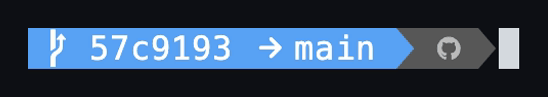
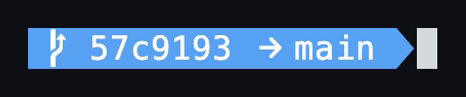
feat: add repo toggle to the git module (#202)

Changed region(s): [[0.0901, 0.2784, 0.9614, 0.7423], [0.03, 0.2784, 0.0601, 0.7113]]

diff --git a/site/config.html b/site/config.html
@@ -620,6 +620,7 @@
               <code>"auto"</code> picks by the size of <code>.git/index</code>, and uses gitoxide when <code>git</code> isn't on your <code>PATH</code>.
             </td></tr>
             <tr><td><code>worktrees</code></td><td>boolean</td><td><code>true</code></td><td>Show the linked-worktree count next to the branch, as <code>index/count</code> inside a linked worktree. Nothing shows when there are none.</td></tr>
+            <tr><td><code>repo</code></td><td>boolean</td><td><code>true</code></td><td>Show the remote segment: the GitHub logo linking to the repository and the ahead/behind counts.</td></tr>
           </tbody>
         </table>
         <details class="theme-opts" data-theme="git">
@@ -634,12 +635,13 @@
 </div><!-- /example -->
           <div class="example" data-example="git/full">
   <div class="ex-label">All options, detached HEAD</div>
-  <figure class="term shot"><img src="img/config/git-full.png" width="274" height="48" loading="lazy" alt="The git example: All options, detached HEAD."></figure>
+  <figure class="term shot"><img src="img/config/git-full.png" width="233" height="48" loading="lazy" alt="The git example: All options, detached HEAD."></figure>
   <pre class="json"><code>{
   <span class="k">"git"</span>: {
     <span class="k">"status_timeout_ms"</span>: <span class="n">500</span>,
     <span class="k">"backend"</span>: <span class="s">"cli"</span>,
-    <span class="k">"worktrees"</span>: <span class="n">false</span>
+    <span class="k">"worktrees"</span>: <span class="n">false</span>,
+    <span class="k">"repo"</span>: <span class="n">false</span>
   }
 }</code></pre>
 </div><!-- /example -->

diff --git a/src/config.rs b/src/config.rs
@@ -223,6 +223,10 @@ pub enum LineSegment {
         /// shows when there are none.
         #[serde(default = "default_true")]
         worktrees: bool,
+        /// Show the remote segment: the forge logo linking to the repository
+        /// and the ahead/behind counts. On by default.
+        #[serde(default = "default_true")]
+        repo: bool,
     },
     Pr {
         /// Append a coloured dot reflecting the PR's CI check status. On by
@@ -441,6 +445,8 @@ enum KnownLineSegment {
         backend: GitBackend,
         #[serde(default = "default_true")]
         worktrees: bool,
+        #[serde(default = "default_true")]
+        repo: bool,
     },
     Pr {
         #[serde(default = "default_true")]
@@ -591,10 +597,12 @@ impl From<KnownLineSegment> for LineSegment {
                 status_timeout_ms,
                 backend,
                 worktrees,
+                repo,
             } => LineSegment::Git {
                 status_timeout_ms,
                 backend,
                 worktrees,
+                repo,
             },
             KnownLineSegment::Pr { status } => LineSegment::Pr { status },
             KnownLineSegment::Python { version, venv } => LineSegment::Python { version, venv },
@@ -882,6 +890,7 @@ impl Config {
                         status_timeout_ms: DEFAULT_GIT_STATUS_TIMEOUT_MS,
                         backend: GitBackend::Auto,
                         worktrees: true,
+                        repo: true,
                     },
                     LineSegment::Pr { status: true },
                 ]),
@@ -936,6 +945,7 @@ impl Default for Config {
                             status_timeout_ms: DEFAULT_GIT_STATUS_TIMEOUT_MS,
                             backend: GitBackend::Auto,
                             worktrees: true,
+                            repo: true,
                         },
                         LineSegment::Pr { status: true },
                         LineSegment::Padding(2),
@@ -1132,6 +1142,7 @@ mod tests {
                 status_timeout_ms: DEFAULT_GIT_STATUS_TIMEOUT_MS,
                 backend: GitBackend::Auto,
                 worktrees: true,
+                repo: true,
             }
         );
     }
@@ -1147,6 +1158,7 @@ mod tests {
                 status_timeout_ms: 250,
                 backend: GitBackend::Auto,
                 worktrees: true,
+                repo: true,
             }
         );
     }
@@ -1168,6 +1180,7 @@ mod tests {
                     status_timeout_ms: DEFAULT_GIT_STATUS_TIMEOUT_MS,
                     backend: expected,
                     worktrees: true,
+                    repo: true,
                 }
             );
         }
@@ -1184,6 +1197,23 @@ mod tests {
                 status_timeout_ms: DEFAULT_GIT_STATUS_TIMEOUT_MS,
                 backend: GitBackend::Auto,
                 worktrees: false,
+                repo: true,
+            }
+        );
+    }
+
+    #[test]
+    fn git_remote_segment_can_be_turned_off() {
+        let parsed: LineSegment = serde_json::from_str(r#"{"git":{"repo":false}}"#)
+            .expect("git module without repo should parse");
+
+        assert_eq!(
+            parsed,
+            LineSegment::Git {
+                status_timeout_ms: DEFAULT_GIT_STATUS_TIMEOUT_MS,
+                backend: GitBackend::Auto,
+                worktrees: true,
+                repo: false,
             }
         );
     }
@@ -1545,6 +1575,7 @@ mod tests {
                     status_timeout_ms: DEFAULT_GIT_STATUS_TIMEOUT_MS,
                     backend: GitBackend::Cli,
                     worktrees: true,
+                    repo: true,
                 },
                 Some(SegmentPadding::Small),
             ),

diff --git a/tests/git_worktrees.rs b/tests/git_worktrees.rs
@@ -1,4 +1,5 @@
-//! End-to-end checks for the linked-worktree label in the git widget.
+//! End-to-end checks for the linked-worktree label and the remote segment in
+//! the git widget.
 
 use std::fs;
 use std::path::{Path, PathBuf};
@@ -155,5 +156,32 @@ fn a_theme_can_swap_or_hide_the_icon() {
 
     let prompt = render(&root, "two", git_segment(json!({})), theme(""));
     assert!(prompt.contains("two 2/2 "), "prompt: {prompt:?}");
+    let _ = fs::remove_dir_all(&root);
+}
+
+#[test]
+fn turning_repo_off_hides_the_remote_segment() {
+    let root = scratch("repo");
+    let main = root.join("main");
+    git(
+        &main,
+        &["remote", "add", "origin", "git@github.com:example/repo.git"],
+    );
+    let theme = json!({
+        "defaults": { "fg": 15, "bg": 0 },
+        "modules": { "git": { "remote_icon": "REMOTE" } },
+    });
+
+    let shown = render(&root, "main", git_segment(json!({})), theme.clone());
+    assert!(shown.contains("REMOTE"), "prompt: {shown:?}");
+    assert!(
+        shown.contains("https://github.com/example/repo"),
+        "prompt: {shown:?}"
+    );
+
+    let hidden = render(&root, "main", git_segment(json!({ "repo": false })), theme);
+    assert!(hidden.contains("main "), "prompt: {hidden:?}");
+    assert!(!hidden.contains("REMOTE"), "prompt: {hidden:?}");
+    assert!(!hidden.contains("github.com"), "prompt: {hidden:?}");
     let _ = fs::remove_dir_all(&root);
 }

diff --git a/src/modules/git.rs b/src/modules/git.rs
@@ -34,6 +34,7 @@ pub struct Git<S> {
     status_timeout: Duration,
     backend: GitBackend,
     worktrees: bool,
+    repo: bool,
     scheme: PhantomData<S>,
 }
 
@@ -147,15 +148,23 @@ impl<S: GitScheme> Git<S> {
             Duration::from_millis(DEFAULT_GIT_STATUS_TIMEOUT_MS),
             GitBackend::default(),
             true,
+            true,
         )
     }
 
-    /// `worktrees` shows the linked-worktree count next to the branch.
-    pub fn with_config(status_timeout: Duration, backend: GitBackend, worktrees: bool) -> Git<S> {
+    /// `worktrees` shows the linked-worktree count next to the branch; `repo`
+    /// shows the remote segment with its link and ahead/behind counts.
+    pub fn with_config(
+        status_timeout: Duration,
+        backend: GitBackend,
+        worktrees: bool,
+        repo: bool,
+    ) -> Git<S> {
         Git {
             status_timeout,
             backend,
             worktrees,
+            repo,
             scheme: PhantomData,
         }
     }
@@ -835,7 +844,7 @@ impl<S: GitScheme> Module for Git<S> {
             S::git_conflicted_bg(),
         );
 
-        if stats.remote {
+        if self.repo && stats.remote {
             let remote = remote_label(
                 S::git_remote_icon(),
                 (stats.ahead, S::git_ahead_icon()),

diff --git a/src/editor/schema.rs b/src/editor/schema.rs
@@ -322,6 +322,11 @@ const GIT: &[OptionSpec] = &[
         true,
         "Show the linked-worktree count by the branch, index/count inside one.",
     ),
+    boolean(
+        "repo",
+        true,
+        "Show the remote segment: the repo link and ahead/behind counts.",
+    ),
 ];
 
 const PR: &[OptionSpec] = &[boolean(
@@ -925,6 +930,6 @@ mod tests {
     fn value_widgets_expose_their_option() {
         assert_eq!(find("padding").unwrap().options()[0].key, "width");
         assert_eq!(find("battery").unwrap().options().len(), 0);
-        assert_eq!(find("git").unwrap().options().len(), 3);
+        assert_eq!(find("git").unwrap().options().len(), 4);
     }
 }

diff --git a/src/powerline.rs b/src/powerline.rs
@@ -484,10 +484,12 @@ impl Powerline {
                     status_timeout_ms,
                     backend,
                     worktrees,
+                    repo,
                 } => self.add_module(Git::<T>::with_config(
                     Duration::from_millis(*status_timeout_ms),
                     *backend,
                     *worktrees,
+                    *repo,
                 )),
                 LineSegment::Pr { status } => self.add_module(
                     Pr::<T>::new(*status).with_claude_code_pr(claude.and_then(|s| s.pr.as_ref())),

diff --git a/README.md b/README.md
@@ -419,7 +419,7 @@ The current branch and working-tree status: modified, staged and untracked count
 the upstream. A GitHub logo appears whenever the repo has a remote, and links to the repository's web page (derived
 from the `origin` fetch URL); the ahead/behind counts beside it need an
 upstream tracking ref that still resolves, so they are absent on a branch that was never pushed or whose remote
-branch has been deleted.
+branch has been deleted. `"repo": false` hides the whole remote segment, logo and counts.
 
 A detached HEAD shows the short commit hash. When that commit is the tip of a branch (a worktree created with
 `git worktree add --detach`, or `git checkout origin/main`) the branch follows it, as `1a2b3c4 → main`; local
@@ -436,7 +436,7 @@ shown while a refresh continues in the background for the next prompt. Before an
 `loading…`.
 
 ```json
-{ "git": { "status_timeout_ms": 250, "backend": "auto", "worktrees": true } }
+{ "git": { "status_timeout_ms": 250, "backend": "auto", "worktrees": true, "repo": true } }
 ```
 
 Status is produced by one of two backends, chosen with `backend`:
